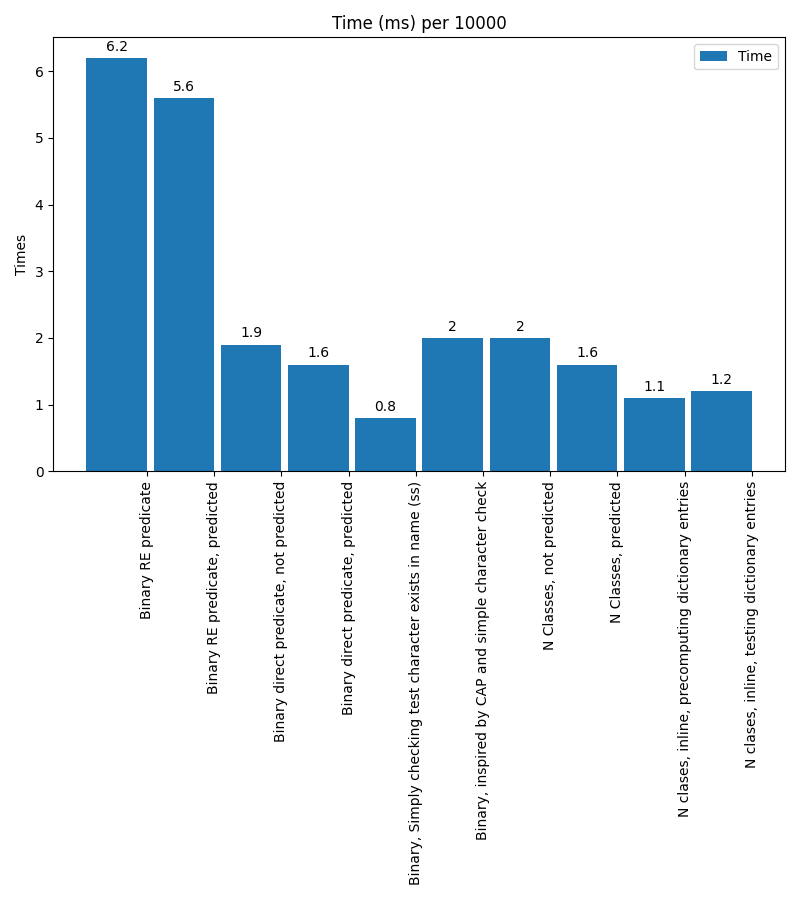
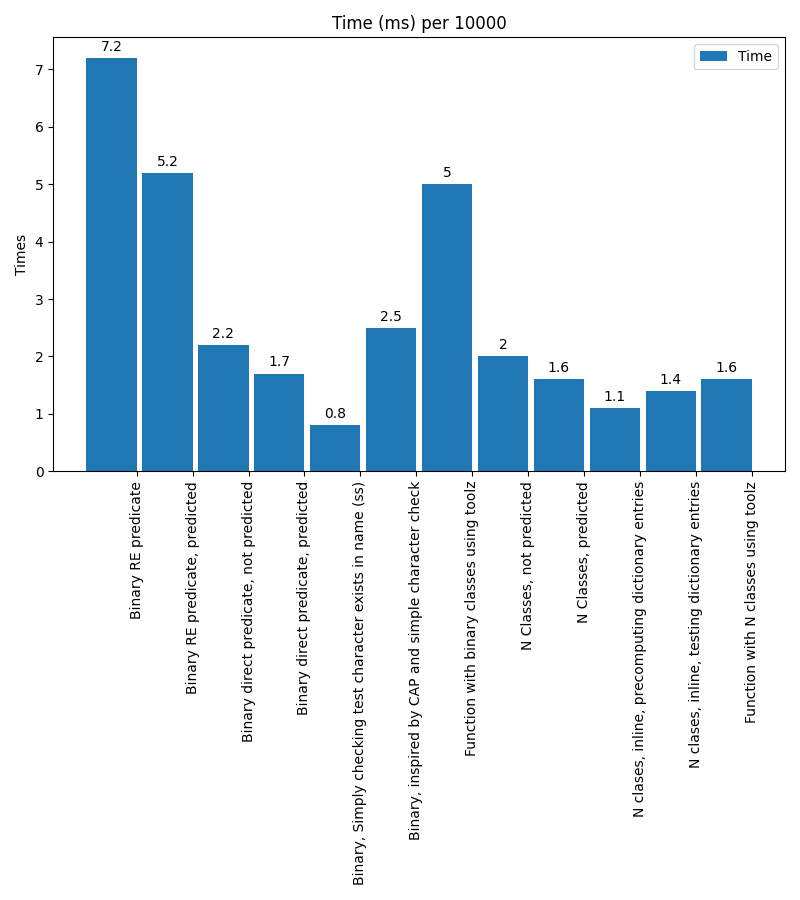
Add toolz.groupby to tests

diff --git a/test.py b/test.py
@@ -14,6 +14,7 @@ if __name__ == '__main__': # testing and performance
     import wcmatch.fnmatch as wc
     from more_itertools import partition, bucket
     from boltons import dictutils
+    import toolz
     # local modules
     import dictoflists
     from splitseq import *
@@ -84,6 +85,8 @@ if __name__ == '__main__': # testing and performance
         FT10 = auto()
         FT11 = auto()
         FT12 = auto()
+        Toolz = auto()
+        Toolzb = auto()
 
     def CApartition(pred, iter):
         results = [], []
@@ -143,6 +146,20 @@ if __name__ == '__main__': # testing and performance
             pat = F'*[{ch}]*'
             for i in range(n):          # Only once round test loop as spliting sequence using remove is destructive.
                 match test: # patern matching used toparse test cases rather than if ,,. elif ... else .. chain
+                    case Test.Toolz:
+                        note = 'Function with N classes using toolz'
+                        b = []
+                        c = []
+                        pred = lambda x: x[0]
+                        e = toolz.groupby(pred, a)
+                    case Test.Toolzb:
+                        note = 'Function with binary classes using toolz'
+                        res = translate(pat)
+                        predx = re.compile(res).match
+                        pred = lambda x: bool(predx(x))
+                        e = toolz.groupby(pred, a)
+                        b = e[True]
+                        c = e[False]
                     case Test.FSEQ:
                         note = 'Function with preset N classes'
                         b = []
@@ -487,10 +504,10 @@ if __name__ == '__main__': # testing and performance
         return b, c, note
 
     # ckose the test to be performed
-    output = 'text' # one of [bar, loglog, loglin, text]
+    output = 'loglin' # one of [bar, loglog, loglin, text]
     #~ testlist = Test # perform all tests
-    testlist = [Test.FT1, Test.FT2, Test.FT3, Test.FT4,  Test.Easy, Test.CAPmess, Test.FT5, Test.FT6,
-        Test.Basic2, Test.Basic3] # Specific testa
+    testlist = [Test.FT1, Test.FT2, Test.FT3, Test.FT4,  Test.Easy, Test.CAPmess, Test.Toolzb, Test.FT5, Test.FT6,
+        Test.Basic2, Test.Basic3, Test.Toolz] # Specific testa
 
 
     match output:
@@ -529,7 +546,7 @@ if __name__ == '__main__': # testing and performance
                     if t == 0.:
                         t = 30.
                     y.append(t)
-                    print(tc, testnames, t)
+                    print(tc, testnames, repeat, t)
                 nlabels.append(note)
             width = 0.9 # the width of the bars
             fig, ax = plt.subplots()

diff --git a/README.md b/README.md
@@ -41,11 +41,14 @@ def n_split(seq, pred, keys = []):
 It is used like this `a = n_split(b, lambda x: x[0], keys = ['a', 'b' ...])` where a is the output dictionary, b is the input list of strings beginning with lower case strings, a simple predicate returning the first character and `keys` is used to predefine the lowercase letters as valid elements. By inspection one can see it has two paths, with and without predefined `keys`. With keys is usually faster.
 
 This code is simple but could be extended for other container types. For example the predicate function could return a key based on a dictionary elements key and value. The return could now be a dictionary of dictionaries, or even a dictionary of sets if the container were a set.
+
+Subsequent testing has shown that `toolz.groupby` is slightly faster.
 ## Testing
 The file `test.py` contains code that tests many different ways of splitting sequences. The following external modules are required
 1. wcmatch
 2. more_itertools
 3. boltons
+3. toolz
 4. matplotlib
 5. numpy
 
